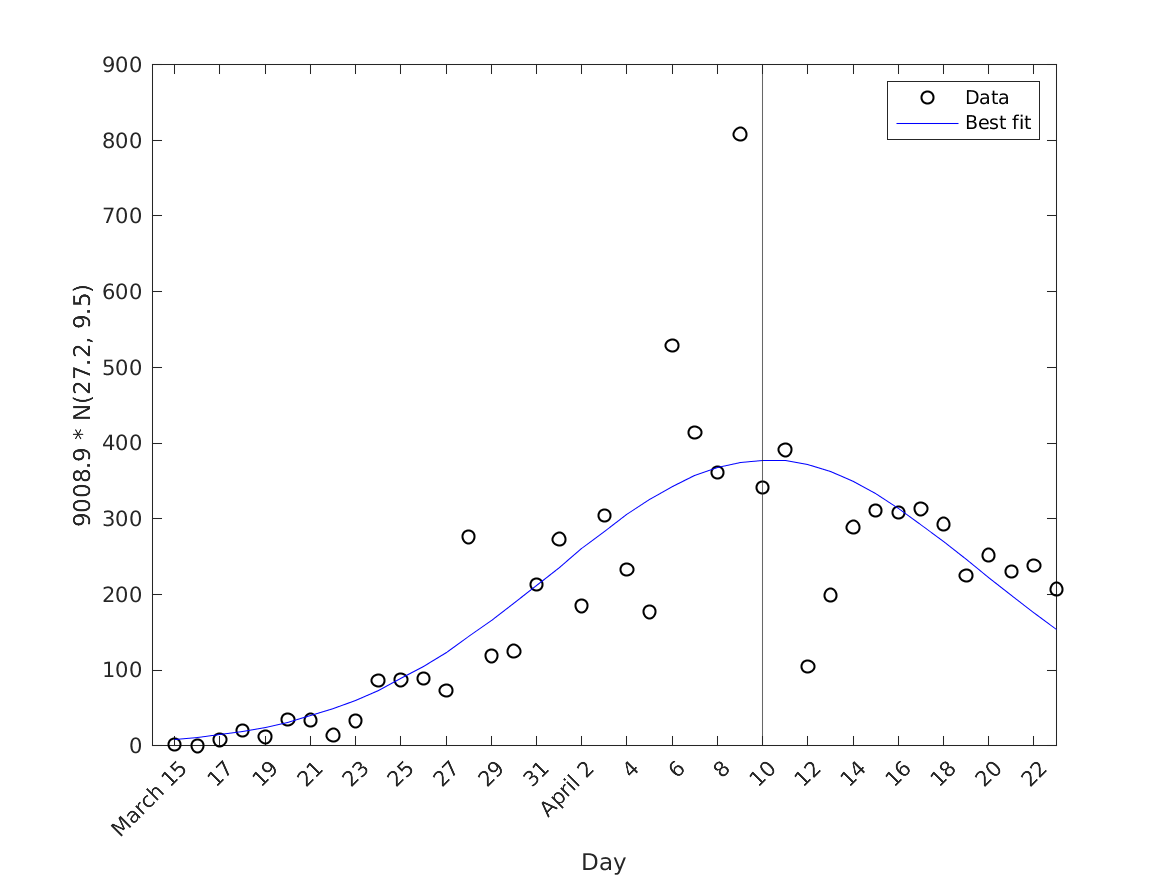
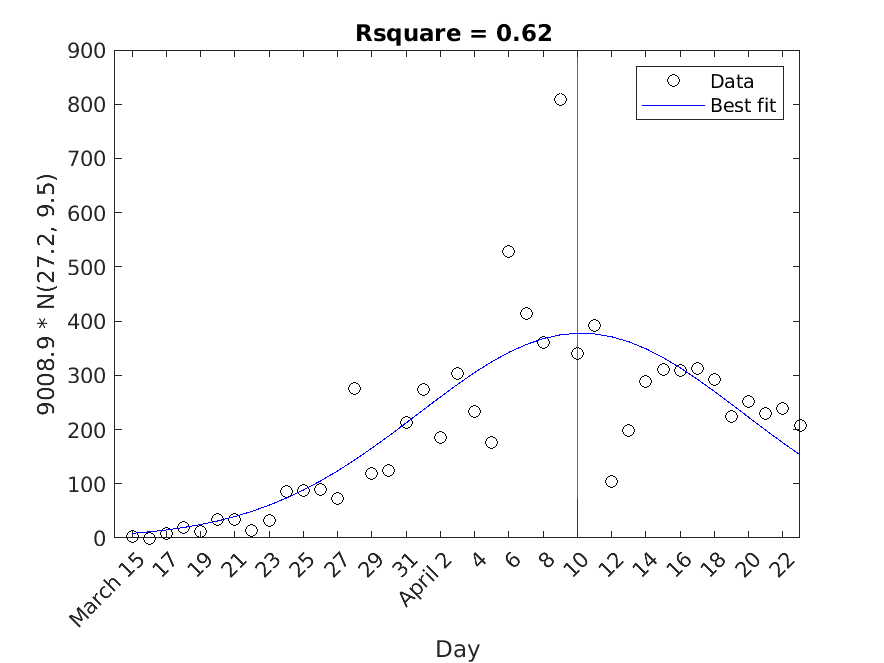
ENH: daily update

diff --git a/covidcurvefit.m b/covidcurvefit.m
@@ -6,6 +6,11 @@ rawdata = readtable('datatmp.csv');
 %Create an anonymous function that takes a value of the exponential decay rate r and returns a vector of differences from the model with that decay rate and the data.
 
 PeakDay = ones(length(rawdata.Day),1);
+Rsquare = NaN(length(rawdata.Day),1);
+
+handle3=figure(3);
+plot(rawdata.Day,rawdata.CasesReported,'ko')
+hold
 
 for iii = 30:length(rawdata.Day)
    simplemodel = @(r) r(3)./(r(2)* sqrt(2.*pi))* exp(-.5 * ((rawdata.Day(1:iii) -r(1))/r(2)).^2 );
@@ -17,19 +22,35 @@ for iii = 30:length(rawdata.Day)
    predictedvalues = simplemodel(x);
    [maxcase,idmax] = max(predictedvalues )
    PeakDay(iii) = idmax; 
-end
+   Rsquare(iii) = 1 - sum((rawdata.CasesReported(1:iii) - predictedvalues ).^2)/sum((rawdata.CasesReported(1:iii) - mean(rawdata.CasesReported)).^2);
 
+   plot(rawdata.Day(1:iii),predictedvalues,'b-')
+   xline(idmax)
+end
+legend('Data','Best fit')
+xlabel('Day')
+ylabel(sprintf('%4.1f * N(%4.1f,%4.1f)',x(3),x(1),x(2)))
+title(sprintf('%4.2f < Rsquare < %4.2f ',min(Rsquare),max(Rsquare) ))
+xticks(rawdata.Day(1:2:length(rawdata.Day)))
+xticklabels(rawdata.Date(1:2:length(rawdata.Date)))
+xtickangle(45)
+saveas(handle3,'evolution','png')
+
+
+%plot 
 handle1=figure(1);
 plot(rawdata.Day,rawdata.CasesReported,'ko',rawdata.Day,predictedvalues,'b-')
 xline(idmax)
 legend('Data','Best fit')
 xlabel('Day')
 ylabel(sprintf('%4.1f * N(%4.1f,%4.1f)',x(3),x(1),x(2)))
+title(sprintf('Rsquare = %4.2f ',Rsquare(length(Rsquare)) ))
 xticks(rawdata.Day(1:2:length(rawdata.Day)))
 xticklabels(rawdata.Date(1:2:length(rawdata.Date)))
 xtickangle(45)
 saveas(handle1,'simplefit','png')
 
+%plot 
 handle2=figure(2);
 plot(rawdata.Day,PeakDay,'k')
 xlabel('Day')
